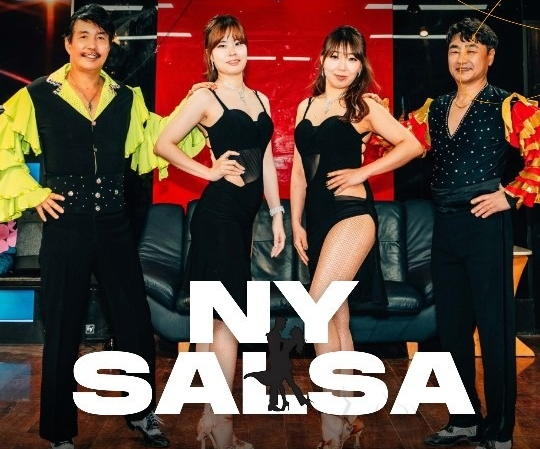
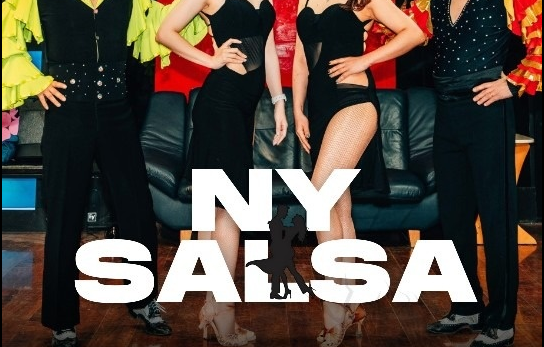
NY 살사댄스학원 이미지 및 대체 텍스트 추가

diff --git a/assets/js/main.js b/assets/js/main.js
@@ -233,6 +233,11 @@ const VENUES = [
       ko: "전문 강사진이 살사·바차타 커리큘럼을 제공하는 대구 라틴댄스 학원입니다.",
       en: "Daegu academy offering structured salsa and bachata training with professional instructors."
     },
+    image: "assets/images/ny_salsa_dance.png",
+    imageAlt: {
+      ko: "NY 살사댄스학원 로고",
+      en: "NY Salsa Dance Academy logo"
+    },
     links: [
       {
         type: "website",
